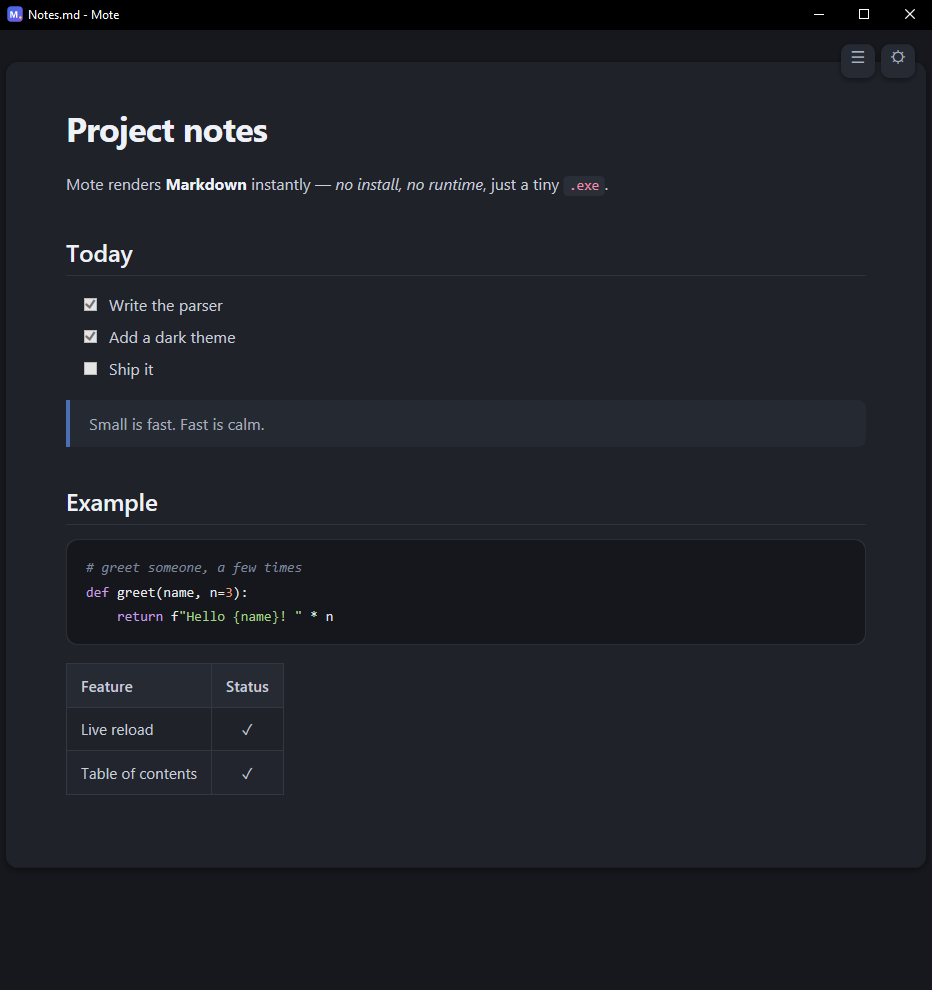
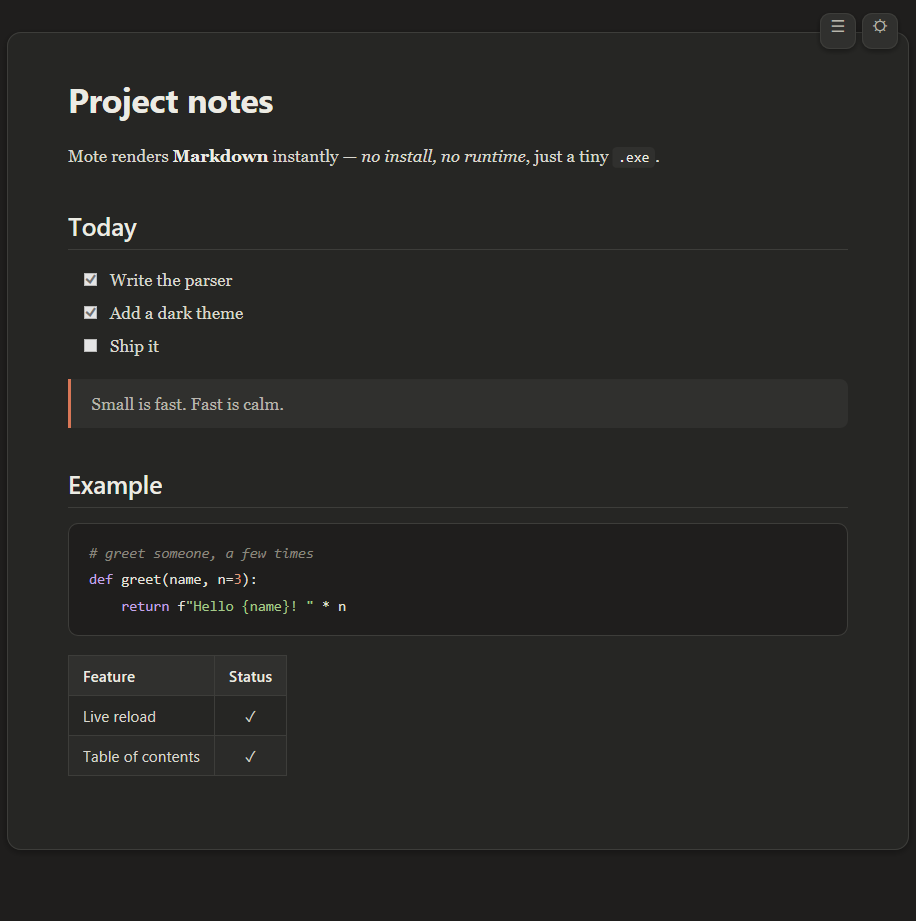
Warm theme: Claude-like palette, serif reading text, refreshed screenshots

diff --git a/Mote.cs b/Mote.cs
@@ -39,8 +39,46 @@ class Mote : Form
     static void Main(string[] args)
     {
         Application.EnableVisualStyles();
+#if SHOT
+        // Test-only build (/define:SHOT): render a file off-screen into a PNG, never shown on the user's screen.
+        if (args.Length >= 3 && args[0] == "--shot") { Shot(args); return; }
+#endif
         Application.Run(new Mote(args.Length > 0 ? args[0] : null));
     }
+
+#if SHOT
+    static int shotTheme = -1;
+    [ComImport, Guid("0000010d-0000-0000-C000-000000000046"), InterfaceType(ComInterfaceType.InterfaceIsIUnknown)]
+    interface IViewObject { [PreserveSig] int Draw(uint a, int l, IntPtr p, IntPtr t, IntPtr h1, IntPtr hdc, ref Rectangle r, IntPtr w, IntPtr c, int ca); }
+    protected override bool ShowWithoutActivation { get { return true; } }
+    static void Shot(string[] a)
+    {
+        shotTheme = a.Length > 3 && a[3] == "dark" ? 1 : 0;
+        var f = new Mote(a[1]);
+        f.StartPosition = FormStartPosition.Manual; f.ShowInTaskbar = false;
+        f.Bounds = new Rectangle(SystemInformation.VirtualScreen.Right + 200, 0, 932, 960);
+        var t = new Timer { Interval = 2500 };
+        t.Tick += delegate
+        {
+            t.Stop();
+            var sz = f.web.ClientSize;
+            using (var b = new Bitmap(sz.Width, sz.Height))
+            {
+                using (var g = Graphics.FromImage(b))
+                {
+                    IntPtr hdc = g.GetHdc();
+                    var r = new Rectangle(0, 0, sz.Width, sz.Height);
+                    ((IViewObject)f.web.Document.DomDocument).Draw(1, -1, IntPtr.Zero, IntPtr.Zero, IntPtr.Zero, hdc, ref r, IntPtr.Zero, IntPtr.Zero, 0);
+                    g.ReleaseHdc(hdc);
+                }
+                b.Save(a[2], System.Drawing.Imaging.ImageFormat.Png);
+            }
+            Environment.Exit(0); // skip SaveSettings
+        };
+        f.Shown += delegate { t.Start(); };
+        Application.Run(f);
+    }
+#endif
 
     Mote(string file)
     {
@@ -49,7 +87,10 @@ class Mote : Form
         StartPosition = FormStartPosition.CenterScreen;
         try { Icon = Icon.ExtractAssociatedIcon(Application.ExecutablePath); } catch { }
         LoadSettings();
-        BackColor = dark ? Color.FromArgb(22, 24, 29) : Color.FromArgb(238, 240, 243);
+        #if SHOT
+        if (shotTheme >= 0) dark = shotTheme == 1;
+#endif
+        BackColor = dark ? Color.FromArgb(31, 30, 29) : Color.FromArgb(240, 238, 230);
 
         web = new WebBrowser();
         web.Dock = DockStyle.Fill;
@@ -207,7 +248,10 @@ class Mote : Form
     void ToggleTheme()
     {
         dark = !dark;
-        BackColor = dark ? Color.FromArgb(22, 24, 29) : Color.FromArgb(238, 240, 243);
+        #if SHOT
+        if (shotTheme >= 0) dark = shotTheme == 1;
+#endif
+        BackColor = dark ? Color.FromArgb(31, 30, 29) : Color.FromArgb(240, 238, 230);
         ApplyTitleBar();
         Width++; Width--;   // forces Win10 to repaint the title bar
         Redraw();
@@ -276,59 +320,60 @@ class Mote : Form
     }
 
     const string Css = @"
-html{background:#eef0f3}
-body{margin:0;color:#2b2f36;font:16px/1.75 'Segoe UI',Arial,sans-serif}
-article{max-width:800px;margin:32px auto;padding:44px 60px 56px;background:#fff;border-radius:12px;box-shadow:0 2px 12px rgba(20,30,50,.08)}
+html{background:#F0EEE6}
+body{margin:0;color:#3D3D3A;font:17px/1.7 Georgia,'Times New Roman',serif}
+article{max-width:780px;margin:32px auto;padding:44px 60px 56px;background:#FAF9F5;border:1px solid #E8E6DC;border-radius:14px;box-shadow:0 1px 8px rgba(40,30,20,.05)}
 article>:first-child{margin-top:0}
-h1,h2,h3,h4,h5,h6{margin:1.6em 0 .6em;line-height:1.3;color:#14171c;font-weight:600}
-h1{font-size:2.1em;font-weight:700;letter-spacing:-.5px}
-h2{font-size:1.5em;padding-bottom:.3em;border-bottom:1px solid #e8eaee}
-h3{font-size:1.2em}
+h1,h2,h3,h4,h5,h6{margin:1.6em 0 .6em;line-height:1.3;color:#141413;font-family:'Segoe UI',Arial,sans-serif;font-weight:600}
+h1{font-size:2em;font-weight:700;letter-spacing:-.4px}
+h2{font-size:1.45em;padding-bottom:.3em;border-bottom:1px solid #E8E6DC}
+h3{font-size:1.18em}
 p,ul,ol,table,pre,blockquote{margin:0 0 1.1em}
 li{margin:.25em 0}
-a{color:#2f6fde;text-decoration:none;border-bottom:1px solid #c9dafa} a:hover{border-bottom-color:#2f6fde}
-strong{color:#14171c}
-code{font:86% Consolas,monospace;background:#f2f3f6;color:#c0396b;padding:.15em .4em;border-radius:5px}
-pre{background:#1f2430;color:#e4e7ee;padding:16px 20px;border-radius:10px;overflow:auto;line-height:1.55}
-pre code{background:none;color:inherit;padding:0;font-size:88%}
-pre .c{color:#7d879a;font-style:italic} pre .s{color:#a6d189} pre .n{color:#ef9f76} pre .k{color:#ca9ee6}
+a{color:#C6613F;text-decoration:none;border-bottom:1px solid #EBCBBB} a:hover{border-bottom-color:#C6613F}
+strong{color:#141413}
+code{font:84% Consolas,monospace;background:#F0EEE6;color:#141413;padding:.15em .4em;border-radius:5px}
+pre{background:#F5F4EE;color:#141413;border:1px solid #E8E6DC;padding:16px 20px;border-radius:10px;overflow:auto;line-height:1.55}
+pre code{background:none;color:inherit;padding:0;font-size:86%}
+pre .c{color:#8A877D;font-style:italic} pre .s{color:#5B7F3A} pre .n{color:#B2552F} pre .k{color:#7553A8}
 .code{position:relative}
-.code .copy{display:none;position:absolute;top:8px;right:10px;font:12px 'Segoe UI',Arial;color:#aab2c2;background:#2c3342;border:0;border-radius:6px;padding:3px 10px}
-.code:hover .copy{display:block} .code .copy:hover{color:#fff}
-blockquote{padding:.6em 1.2em;color:#555d6b;background:#f6f8fb;border-left:4px solid #8fb3f0;border-radius:0 8px 8px 0}
+.code .copy{display:none;position:absolute;top:8px;right:10px;font:12px 'Segoe UI',Arial;color:#73726C;background:#FAF9F5;border:1px solid #E8E6DC;border-radius:6px;padding:2px 10px}
+.code:hover .copy{display:block} .code .copy:hover{color:#C6613F}
+blockquote{padding:.6em 1.2em;color:#5E5D59;background:#F5F4EE;border-left:3px solid #D97757;border-radius:0 8px 8px 0}
 blockquote>:last-child{margin-bottom:0}
-table{border-collapse:collapse;font-size:.95em}
-th,td{border:1px solid #e3e6eb;padding:8px 14px} th{background:#f4f6f9;font-weight:600} tr:nth-child(even) td{background:#fafbfc}
+table{border-collapse:collapse;font:.9em/1.5 'Segoe UI',Arial,sans-serif}
+th,td{border:1px solid #E8E6DC;padding:8px 14px} th{background:#F0EEE6;font-weight:600;color:#141413;text-align:left} tr:nth-child(even) td{background:#F7F6F1}
 img{max-width:100%;border-radius:8px}
-hr{border:0;height:1px;background:#e3e6eb;margin:2.2em 0}
+hr{border:0;height:1px;background:#E8E6DC;margin:2.2em 0}
 li.task{list-style:none} li.task input{margin:0 .5em 0 -1.4em}
-::selection{background:#cfe0fc}
+::selection{background:#F3D9CC}
 #bar{position:fixed;top:12px;right:18px;z-index:9}
-#bar a{display:inline-block;width:34px;height:34px;line-height:34px;text-align:center;margin-left:6px;border:0;border-radius:9px;background:#fff;color:#555d6b;box-shadow:0 1px 6px rgba(20,30,50,.14);font:17px 'Segoe UI Symbol','Segoe UI'}
-#bar a:hover{color:#2f6fde}
-#toc{position:fixed;top:58px;right:18px;width:250px;max-height:75%;overflow:auto;background:#fff;border-radius:12px;box-shadow:0 4px 20px rgba(20,30,50,.16);padding:12px 8px;font-size:14px;line-height:1.4;z-index:9}
-#toc b{display:block;padding:2px 10px 8px;font-size:12px;letter-spacing:1px;color:#8a92a0}
-#toc a{display:block;padding:5px 10px;border:0;border-radius:6px;color:#3a404b}
-#toc a:hover{background:#f0f3f8;color:#2f6fde}
-#toc .l2{padding-left:22px} #toc .l3{padding-left:34px;font-size:13px;color:#6b7280}
-html.dark{background:#16181d;scrollbar-face-color:#3a3f4b;scrollbar-track-color:#16181d;scrollbar-arrow-color:#8a92a0;scrollbar-shadow-color:#3a3f4b;scrollbar-highlight-color:#3a3f4b;scrollbar-3dlight-color:#16181d;scrollbar-darkshadow-color:#16181d}
-.dark body{color:#c9ced8}
-.dark article{background:#1f2229;box-shadow:0 2px 14px rgba(0,0,0,.45)}
-.dark h1,.dark h2,.dark h3,.dark h4,.dark h5,.dark h6,.dark strong{color:#eef1f6}
-.dark h2{border-bottom-color:#2e333d}
-.dark a{color:#7aa7f5;border-bottom-color:#33456a} .dark a:hover{border-bottom-color:#7aa7f5}
-.dark code{background:#2a2e37;color:#f08db0}
-.dark pre{background:#15171c;box-shadow:inset 0 0 0 1px #2a2e37}
+#bar a{display:inline-block;width:34px;height:34px;line-height:34px;text-align:center;margin-left:6px;border:1px solid #E8E6DC;border-radius:10px;background:#FAF9F5;color:#73726C;box-shadow:0 1px 4px rgba(40,30,20,.06);font:17px 'Segoe UI Symbol','Segoe UI'}
+#bar a:hover{color:#C6613F}
+#toc{position:fixed;top:58px;right:18px;width:250px;max-height:75%;overflow:auto;background:#FAF9F5;border:1px solid #E8E6DC;border-radius:12px;box-shadow:0 4px 18px rgba(40,30,20,.10);padding:12px 8px;font:14px/1.4 'Segoe UI',Arial,sans-serif;z-index:9}
+#toc b{display:block;padding:2px 10px 8px;font-size:12px;letter-spacing:1px;color:#8A877D}
+#toc a{display:block;padding:5px 10px;border:0;border-radius:6px;color:#3D3D3A}
+#toc a:hover{background:#F0EEE6;color:#C6613F}
+#toc .l2{padding-left:22px} #toc .l3{padding-left:34px;font-size:13px;color:#73726C}
+html{scrollbar-face-color:#D9D7CE;scrollbar-track-color:#F0EEE6;scrollbar-arrow-color:#8A877D;scrollbar-shadow-color:#D9D7CE;scrollbar-highlight-color:#D9D7CE;scrollbar-3dlight-color:#F0EEE6;scrollbar-darkshadow-color:#F0EEE6}
+html.dark{background:#1F1E1D;scrollbar-face-color:#3D3D3A;scrollbar-track-color:#1F1E1D;scrollbar-arrow-color:#9C9A92;scrollbar-shadow-color:#3D3D3A;scrollbar-highlight-color:#3D3D3A;scrollbar-3dlight-color:#1F1E1D;scrollbar-darkshadow-color:#1F1E1D}
+.dark body{color:#D9D7CE}
+.dark article{background:#262624;border-color:#3D3D3A;box-shadow:0 2px 14px rgba(0,0,0,.35)}
+.dark h1,.dark h2,.dark h3,.dark h4,.dark h5,.dark h6,.dark strong{color:#ECEBE4}
+.dark h2{border-bottom-color:#3D3D3A}
+.dark a{color:#E39A7E;border-bottom-color:#5A3F33} .dark a:hover{border-bottom-color:#E39A7E}
+.dark code{background:#30302E;color:#ECEBE4}
+.dark pre{background:#1F1E1D;color:#E4E2DA;border-color:#3D3D3A}
 .dark pre code{background:none;color:inherit}
-.dark blockquote{background:#252932;color:#a9b0bd;border-left-color:#4a6fb3}
-.dark th,.dark td{border-color:#323743} .dark th{background:#262a33} .dark tr:nth-child(even) td{background:#22252d}
-.dark hr{background:#2e333d}
-.dark ::selection{background:#34507f}
-.dark .code .copy{background:#2a2e37}
-.dark #bar a,.dark #toc{background:#262a33;color:#aab2c2;box-shadow:0 2px 12px rgba(0,0,0,.45)}
-.dark #bar a:hover{color:#7aa7f5}
-.dark #toc a{color:#c9ced8} .dark #toc a:hover{background:#2f3440;color:#7aa7f5} .dark #toc .l3{color:#8a92a0}
-";
+.dark pre .c{color:#8A877D} .dark pre .s{color:#A6C98A} .dark pre .n{color:#E39A7E} .dark pre .k{color:#C3A6E8}
+.dark blockquote{background:#30302E;color:#B8B6AD;border-left-color:#D97757}
+.dark th,.dark td{border-color:#3D3D3A} .dark th{background:#30302E;color:#ECEBE4} .dark tr:nth-child(even) td{background:#2B2B29}
+.dark hr{background:#3D3D3A}
+.dark ::selection{background:#5A3A2E}
+.dark .code .copy{background:#262624;border-color:#3D3D3A;color:#9C9A92}
+.dark #bar a,.dark #toc{background:#30302E;border-color:#3D3D3A;color:#B8B6AD;box-shadow:0 2px 12px rgba(0,0,0,.4)}
+.dark #bar a:hover{color:#E39A7E}
+.dark #toc a{color:#D9D7CE} .dark #toc a:hover{background:#3D3D3A;color:#E39A7E} .dark #toc .l3{color:#9C9A92}";
 }
 
 static class Md

diff --git a/README.md b/README.md
@@ -63,6 +63,10 @@ Kept small on purpose:
 - Rendering uses the built-in Windows web control, so very exotic CSS/Markdown extensions (math, diagrams, footnotes) are not supported.
 - Windows only.
 
+## Family
+
+Mote is a sibling of [Glint](https://github.com/nihat3371/glint), which lets you ask Claude about whatever is on your screen. Small, fast, calm Windows tools.
+
 ## License
 
 [MIT](LICENSE)
